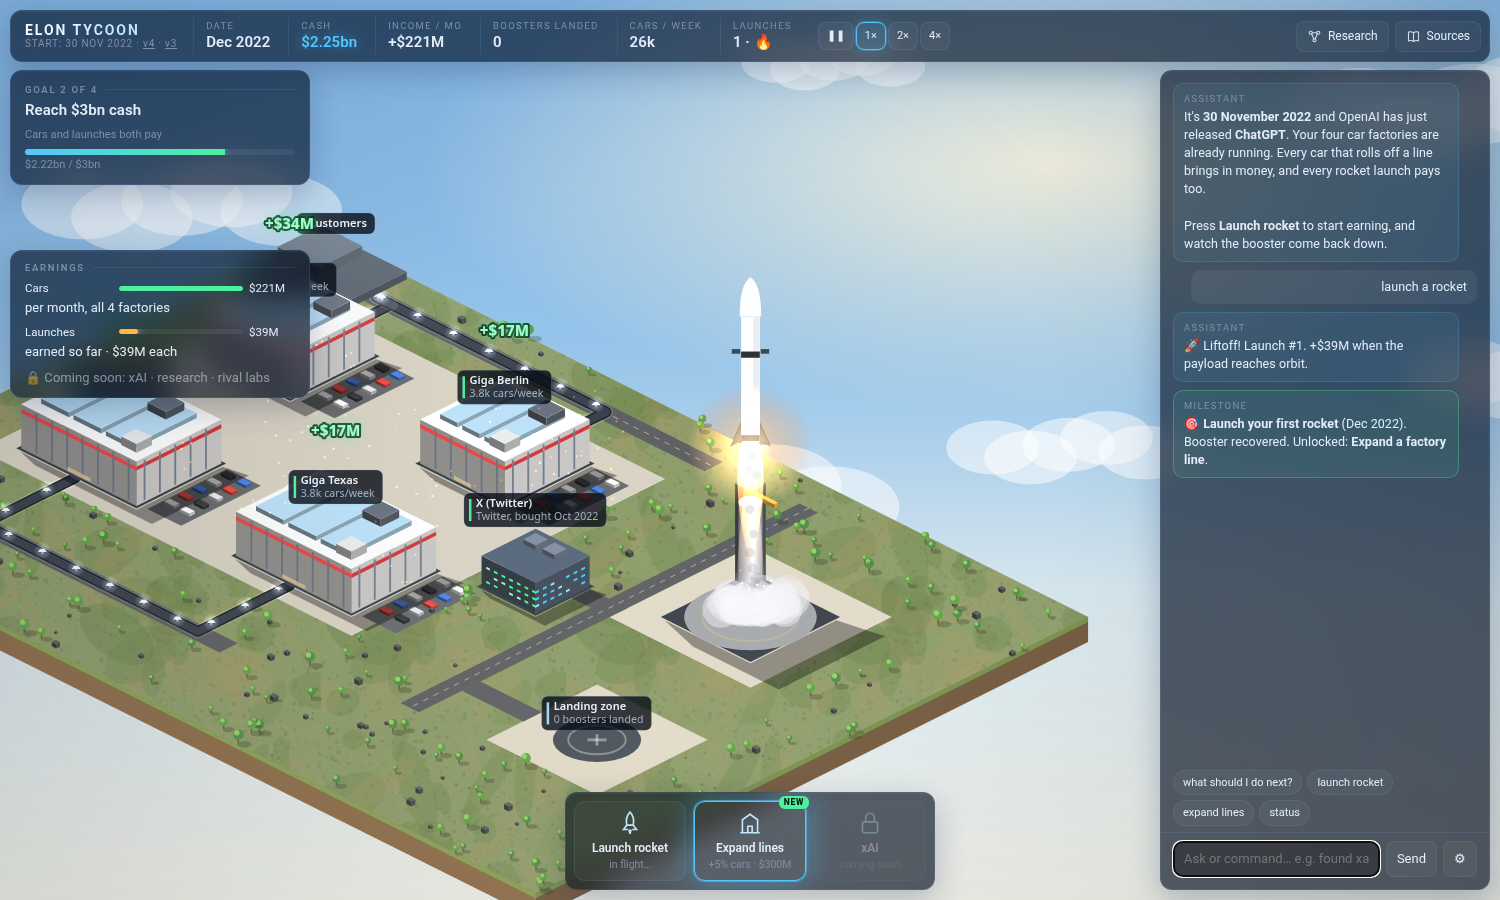
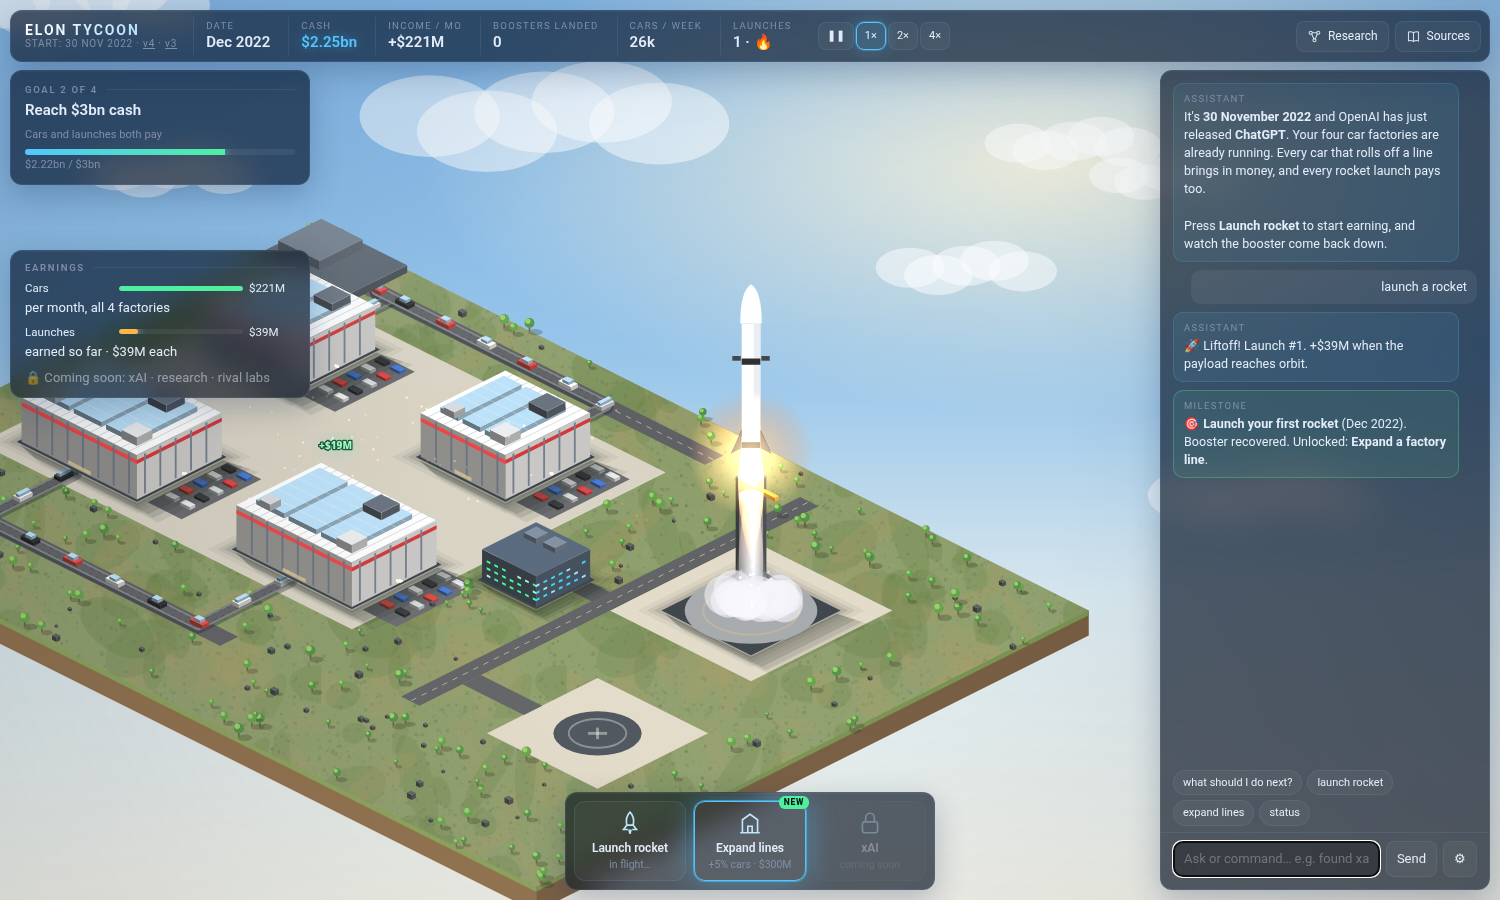
v5 visual pass 2: soft shadows/AO, roof textures, road belts with car models, hover labels, fewer pops, touchdown slow-mo, smoke cleanup, phone framing

diff --git a/index.html b/index.html
@@ -125,7 +125,7 @@ function month(){S.bought=0;S.carsWk*=1.02;checkGoal();sync()}
 let lastT=performance.now();const SECPM=5;
 function loop(now){const dt=Math.min(.1,(now-lastT)/1000);lastT=now;if(!S.paused)advance(dt*S.speed/SECPM);if(S.flight){S.flight.t+=dt*Math.max(1,S.speed*.7);if(S.flight.t>=S.flight.dur)resolveFlight()}requestAnimationFrame(loop)}
 function advance(dm){S.t+=dm;S.cd=Math.max(0,S.cd-dm);const cars=S.carsWk*4.33*dm;S.cars+=cars;S.cash+=cars*2000/1e9;
- FAC.forEach(([k,,sh])=>{S.carAcc[k]=(S.carAcc[k]||0)+cars*sh;if(S.carAcc[k]>=S.carsWk*sh*1.1){if(!MOB||k==='shanghai')pop(SITES[k],'+$'+(S.carAcc[k]*2000/1e6).toFixed(0)+'M',S.carAcc[k]*2000/1e6);S.carAcc[k]=0;rollOut(k)}});
+ FAC.forEach(([k,,sh])=>{S.carAcc[k]=(S.carAcc[k]||0)+cars*sh;if(S.carAcc[k]>=S.carsWk*sh*2.5){if(k==='shanghai'||k==='texas'&&!MOB)pop(SITES[k],'+$'+(S.carAcc[k]*2000/1e6).toFixed(0)+'M',S.carAcc[k]*2000/1e6);S.carAcc[k]=0;rollOut(k)}});
  while(Math.floor(S.t)>S.month){S.month++;month()}uiTick()}
 function actions(){const L=[{id:'launch',n:'Launch rocket',s:S.flight?'in flight…':S.cd>0?'turning pad around…':'+$39M per launch',cmd:'launch rocket',ic:'rocket'}];
  if(S.unl.line)L.push({id:'line',n:'Expand lines',s:`+5% cars · ${money(.3*Math.pow(1.4,S.lines))}`,cmd:'expand lines',ic:'build'});
@@ -206,7 +206,7 @@ function emit(k,X,Y,n=1){for(let i=0;i<n&&parts.length<PMAX;i++){const p={k,x:X+
  if(k==='spark'){p.vx=(Math.random()-.5)*1.6;p.vy=-1-Math.random()*1.4}if(k==='plume'){p.vx=(Math.random()-.5)*3.2;p.vy=-.15-Math.random()*.5;p.m=140+Math.random()*80;p.s=8+Math.random()*6}parts.push(p)}}
 function drawParts(){g.save();parts=parts.filter(p=>{p.l++;p.x+=p.vx+(p.k!=='spark'?.12:0);p.y+=p.vy;if(p.k==='spark')p.vy+=.06;else p.vy*=.995;const f=p.l/p.m;if(f>=1)return false;
   if(p.k==='spark'){g.globalCompositeOperation='lighter';g.fillStyle=`rgba(255,${170-80*f|0},60,${1-f})`;g.fillRect(p.x,p.y,p.s*1.6,p.s*1.6)}
-  else{g.globalCompositeOperation='source-over';if(p.k==='plume'){p.vx*=.985;const rr=p.s+f*46;const a=.55*(1-f)*(f<.05?f*20:1);const sh2=200+50*(1-f);g.fillStyle=`rgba(${sh2},${sh2},${sh2+5},${a})`;g.beginPath();g.arc(p.x,p.y,rr,0,7);g.fill();g.fillStyle=`rgba(255,255,255,${a*.6})`;g.beginPath();g.arc(p.x-rr*.25,p.y-rr*.3,rr*.55,0,7);g.fill();return true}const r=p.s+f*(p.k==='steam'?16:12);const a=(p.k==='steam'?.22:.2)*(1-f)*(f<.1?f*10:1);g.fillStyle=p.k==='steam'?`rgba(225,235,245,${a})`:`rgba(110,110,120,${a})`;g.beginPath();g.arc(p.x,p.y,r,0,7);g.fill()}return true});g.restore()}
+  else{g.globalCompositeOperation='source-over';if(p.k==='plume'){p.vx*=.985;const rr=p.s+f*46;const a=.75*(1-f)*(f<.05?f*20:1);const sh2=200+50*(1-f);g.fillStyle=`rgba(${sh2},${sh2},${sh2+5},${a})`;g.beginPath();g.arc(p.x,p.y,rr,0,7);g.fill();return true}const r=p.s+f*(p.k==='steam'?16:12);const a=(p.k==='steam'?.22:.2)*(1-f)*(f<.1?f*10:1);g.fillStyle=p.k==='steam'?`rgba(225,235,245,${a})`:`rgba(110,110,120,${a})`;g.beginPath();g.arc(p.x,p.y,r,0,7);g.fill()}return true});g.restore()}
 // ---- item sprites (procedural glowing icons) ----
 const SPR={};
 function mkSprite(it){const c=document.createElement('canvas');c.width=c.height=32;const q=c.getContext('2d');const col=ITC[it]||'#fff';
@@ -261,7 +261,7 @@ function bDraw(b,s8,st,ghost){const d=B[b.t];const[w,h]=b.sz||d.sz;const x=b.x+.
   if(!build)em.push(()=>{const rows=bt==='col'?4:3;for(let r=0;r<rows;r++){const zz=6+r*(z-10)/rows;for(let u=0;u<W2*4-1;u++){const blink=((u*37+r*11+ph+(T>>3))%9);if(blink<1)continue;const c=s8==='starved'?(blink<4?'#ff5a6a':'#402028'):(blink<3?'#a0ffd0':'#3dff9a');g.fillStyle=c;faceL(x,y,W2,H2,.15+u*.25,.15+u*.25+.12,zz,zz+2.2,c)}
     for(let u=0;u<H2*4-1;u++){const blink=((u*29+r*7+ph+(T>>3))%9);if(blink<1)continue;const c=s8==='starved'?(blink<4?'#ff5a6a':'#402028'):(blink<3?'#9fe8ff':'#3dd8ff');faceR(x,y,W2,H2,.15+u*.25,.15+u*.25+.12,zz,zz+2.2,c)}}});
   if(bt==='col'){em.push(()=>{const[X,Y]=P(x+W2*.5,y+H2,z*.55);g.font='bold 9px ui-sans-serif,system-ui';g.textAlign='center';g.fillStyle=`rgba(200,230,255,${.55+.2*Math.sin(T/30)})`;})}}
- else if(bt==='shell'){const z=Hh(46);prism(x,y,W2,H2,0,z,'#eceef0');faceL(x,y,W2,H2,0,W2,z-9,z-5,sh('#d0343a',1));faceR(x,y,W2,H2,0,H2,z-9,z-5,sh('#b52a30',1));for(let i=0;i<3;i++)prism(x+.3+i*(W2-.6)/3,y+.35,(W2-.6)/3-.15,H2-.7,z,z+5,'#9fc3dc',{edge:false});prism(x+W2-.8,y+H2-.8,.5,.5,z,z+9,'#c9cdd2');for(let i=1;i<W2*2;i++){faceL(x,y,W2,H2,i*.5-.03,i*.5+.03,2,z-2,sh('#55606e',1))}for(let i=1;i<H2*2;i++){faceR(x,y,W2,H2,i*.5-.03,i*.5+.03,2,z-2,sh('#5f6a79',1))}
+ else if(bt==='shell'){const z=Hh(46);prism(x,y,W2,H2,0,z,'#eceef0');faceL(x,y,W2,H2,0,W2,z-9,z-5,sh('#d0343a',1));faceR(x,y,W2,H2,0,H2,z-9,z-5,sh('#b52a30',1));for(let i=0;i<3;i++)prism(x+.3+i*(W2-.6)/3,y+.35,(W2-.6)/3-.15,H2-.7,z,z+5,'#9fc3dc',{edge:false});g.strokeStyle='rgba(60,80,100,.25)';g.lineWidth=.8;g.beginPath();for(let i=1;i<W2*4;i++){g.moveTo(...P(x+i*.25,y,z));g.lineTo(...P(x+i*.25,y+H2,z))}g.stroke();for(let i=0;i<3;i++)prism(x+.3+i*(W2-.6)/3,y+.35,(W2-.6)/3-.15,H2-.7,z,z+5,'#9fc3dc',{edge:false});{const xi=x+.3,yi=y+.35;g.strokeStyle='rgba(255,255,255,.35)';g.beginPath();for(let j=1;j<6;j++){g.moveTo(...P(xi,yi+j*(H2-.7)/6,z+5));g.lineTo(...P(x+W2-.3,yi+j*(H2-.7)/6,z+5))}g.stroke()}prism(x+W2-.8,y+H2-.8,.5,.5,z,z+9,'#c9cdd2');prism(x+.4,y+H2-.7,.35,.35,z,z+7,'#b8bdc4');for(let i=1;i<W2*2;i++){faceL(x,y,W2,H2,i*.5-.03,i*.5+.03,2,z-2,sh('#55606e',1))}for(let i=1;i<H2*2;i++){faceR(x,y,W2,H2,i*.5-.03,i*.5+.03,2,z-2,sh('#5f6a79',1))}
   prism(x+W2*.6,y+.3,.6,.6,z,z+8,'#56606f');if(!build)em.push(()=>{faceL(x,y,W2,H2,W2*.4,W2*.6,1,5,'rgba(255,220,150,.55)')})}
  else if(bt==='cool'){prism(x,y,W2,H2,0,Hh(5),'#56606c');const r=Math.min(W2,H2)*.22;const t1=[x+W2*.3,y+H2*.35],t2=[x+W2*.72,y+H2*.7];
   [t1,t2].forEach((p,i)=>{const top=tower(p[0],p[1],r,Hh(58),'#b7c0cc');if(on&&!build&&Math.random()<(MOB?.18:.4))emit('steam',top[0],top[1]-2)})}
@@ -296,8 +296,9 @@ function bDraw(b,s8,st,ghost){const d=B[b.t];const[w,h]=b.sz||d.sz;const x=b.x+.
  // scaffolding for construction
  if(build){const z=(bt==='pad'?110:bt==='cool'?58:40);g.strokeStyle='rgba(255,200,80,.55)';g.lineWidth=1;g.setLineDash([3,3]);const c=[[x,y],[x+W2,y],[x+W2,y+H2],[x,y+H2]];g.beginPath();c.forEach(p=>{g.moveTo(...P(...p,0));g.lineTo(...P(...p,z))});c.forEach((p,i)=>{const q=c[(i+1)%4];g.moveTo(...P(...p,z));g.lineTo(...P(...q,z))});g.stroke();g.setLineDash([])}
  return em}
-function shadow(b){const[w,h]=b.sz||B[b.t].sz;const k={shell:1.3,hall:.8,col:1.1,turb:1.6,sth:1.6,cast:1.3,asm:1,cool:1.4,sub:.6,solar:.15,boxfab:.8,pad:2.4}[b.t]||1;const s=.55*k;
- poly([P(b.x+.2,b.y+h,0),P(b.x+w,b.y+h,0),P(b.x+w,b.y+.2,0),P(b.x+w+s,b.y+.2-s*.2,0),P(b.x+w+s,b.y+h+s*.3,0),P(b.x+.2+s,b.y+h+s*.3,0)],`rgba(0,0,0,${.18+.17*LIGHT})`)}
+function shadow(b){const[w,h]=b.sz||B[b.t].sz;const k={shell:1.3,hall:.8,col:1.1,pad:1.2}[b.t]||1;
+ const e=[.35,.2,.08];e.forEach((o,i)=>poly([P(b.x-o,b.y-o,0),P(b.x+w+o,b.y-o,0),P(b.x+w+o,b.y+h+o,0),P(b.x-o,b.y+h+o,0)],`rgba(20,30,20,${.05+.03*i})`));
+ [1.25,.95,.7].forEach((m,i)=>{const s=.6*k*m;poly([P(b.x+.2,b.y+h,0),P(b.x+w,b.y+h,0),P(b.x+w,b.y+.2,0),P(b.x+w+s,b.y+.2-s*.2,0),P(b.x+w+s,b.y+h+s*.3,0),P(b.x+.2+s,b.y+h+s*.3,0)],`rgba(25,35,30,${.09+.03*i})`)})}
 // ---- v4 draw ----
 const DK={cust:{n:'Customers',x:0,y:0,w:3,h:2,it:'car',top:1},port:{n:'Export port',x:0,y:14,w:3,h:2,it:'car'}};
 function dockArt(d){prism(d.x+.1,d.y+.1,d.w-.2,d.h-.2,0,8,'#46525f');prism(d.x+.3,d.y+.3,d.w*.45,d.h-.6,8,18,'#5b6878')}
@@ -305,10 +306,12 @@ function rocketArt(X,Y,h,flame){const w=h*.075;g.fillStyle=sh('#f4f6f8',1);g.fil
  g.fillStyle=sh('#30343a',1);g.fillRect(X-w*2,Y-h*.74,w*.9,w*.5);g.fillRect(X+w*1.1,Y-h*.74,w*.9,w*.5);g.beginPath();g.moveTo(X-w,Y);g.lineTo(X-w*2.2,Y+w*.6);g.lineTo(X-w,Y-w*2);g.moveTo(X+w,Y);g.lineTo(X+w*2.2,Y+w*.6);g.lineTo(X+w,Y-w*2);g.fill();
  if(flame){g.save();g.globalCompositeOperation='lighter';const L=h*.9*flame*(0.9+Math.random()*.2);const gl=g.createLinearGradient(0,Y,0,Y+L);gl.addColorStop(0,'rgba(255,255,240,1)');gl.addColorStop(.15,'rgba(255,220,140,.95)');gl.addColorStop(.6,'rgba(255,120,40,.5)');gl.addColorStop(1,'rgba(255,60,10,0)');g.fillStyle=gl;g.beginPath();g.moveTo(X-w*.9,Y);g.quadraticCurveTo(X-w*2.2,Y+L*.4,X,Y+L);g.quadraticCurveTo(X+w*2.2,Y+L*.4,X+w*.9,Y);g.fill();
   const gg=g.createRadialGradient(X,Y+6,0,X,Y+6,h*.5*flame);gg.addColorStop(0,'rgba(255,230,180,.8)');gg.addColorStop(1,'rgba(255,140,60,0)');g.fillStyle=gg;g.fillRect(X-h,Y-h*.5,h*2,h*1.5);g.restore()}}
+function carModel(x,y,dx,c){const L=dx?.42:.22,Wd=dx?.22:.42;prism(x-L/2,y-Wd/2,L,Wd,1,5,c,{edge:false});prism(x-L/4,y-Wd/2+.03,L/2,Wd-.06,5,8,'#9fc6e0',{edge:false})}
 let CL=null;function drawClouds(){if(!CL){CL=[];for(let i=0;i<7;i++)CL.push({x:Math.random()*1.4-.2,y:Math.random()*.7,s:.6+Math.random()*.9,v:.00004+Math.random()*.00005})}CL.forEach(c=>{c.x+=c.v;if(c.x>1.3)c.x=-.3;const X=c.x*VW-(cam.x*.05)%VW,Y=c.y*VH,R=90*c.s;g.fillStyle='rgba(255,255,255,.5)';for(let k=0;k<5;k++){g.beginPath();g.ellipse(X+(k-2)*R*.45,Y+Math.sin(k*1.7)*R*.12,R*.55,R*.32,0,0,7);g.fill()}})}
 function flows(){return[{it:'car',pts:[[3.5,3],[3.5,1.2],[3,1.2]],on:true},{it:'car',pts:[[10.5,3],[10.5,1.2],[3,1.2]],on:true},{it:'car',pts:[[4,12],[4,15],[3,15]],on:true},{it:'car',pts:[[11,12],[11,15],[3,15]],on:true}]}
+let HOV=null;cv.addEventListener('pointermove',e=>{const r=cv.getBoundingClientRect();const wx=(e.clientX-r.left-VW/2)/cam.z+cam.x,wy=(e.clientY-r.top-VH/2)/cam.z+cam.y;const a=wx/(TW/2),bb=wy/(TH/2);const gx=(a+bb)/2,gy=(bb-a)/2;HOV=null;for(const k in SITES){const s=SITES[k];if(gx>=s.x-.3&&gx<s.x+s.sz[0]+.3&&gy>=s.y-.3&&gy<s.y+s.sz[1]+1.2)HOV=k}});
 const camv={x:0,y:0,z:1},tcv={x:0,y:0,z:1};let camF=null;
-function fitV(inst){const narrow=innerWidth<=760;const v={l:narrow?6:320,t:narrow?250:70,r:VW-(narrow?6:350),b:VH-(narrow?110:110)};const xs=[P(0,H)[0],P(W,0)[0]],ys=[P(0,0,60)[1],P(W,H)[1]];
+function fitV(inst){const narrow=innerWidth<=760;const v={l:narrow?10:320,t:narrow?260:70,r:VW-(narrow?10:350),b:VH-(narrow?120:110)};const xs=[P(0,H)[0],P(W,0)[0]],ys=[P(0,0,60)[1],P(W,H)[1]];
  const X0=P(0,15)[0],X1=P(23,4)[0]+10,Y0=P(1,0,60)[1],Y1=P(22,14)[1];const z=Math.min(1.8,(v.r-v.l)/(X1-X0),(v.b-v.t)/(Y1-Y0));tcv.z=z;tcv.x=(X0+X1)/2-((v.l+v.r)/2-VW/2)/z;tcv.y=(Y0+Y1)/2-((v.t+v.b)/2-VH/2)/z;if(inst)Object.assign(camv,tcv)}
 function draw4(){tick++;const r=wrap.getBoundingClientRect();if(Math.abs(VW-r.width)>1||Math.abs(VH-r.height)>1){resize();fitV()}
  const tg=camF||tcv;camF=null;camv.x+=(tg.x-camv.x)*(tg===tcv?.06:.12);camv.y+=(tg.y-camv.y)*(tg===tcv?.06:.12);camv.z+=((tg.z||tcv.z)-camv.z)*.05;Object.assign(cam,camv);
@@ -318,17 +321,17 @@ function draw4(){tick++;const r=wrap.getBoundingClientRect();if(Math.abs(VW-r.wi
  // landing zone
  {const l=SITES.lz;const[X,Y]=P(l.x+1,l.y+1);g.fillStyle=sh('#39414b',1);g.beginPath();g.ellipse(X,Y,46,23,0,0,7);g.fill();g.strokeStyle=`rgba(255,255,255,${.35})`;g.lineWidth=2;g.beginPath();g.ellipse(X,Y,30,15,0,0,7);g.stroke();g.fillStyle='rgba(255,255,255,.4)';g.fillRect(X-10,Y-1.5,20,3);g.fillRect(X-1.5,Y-6,3,12)}
  const F=flows();const EM=[];
- F.forEach(f=>{const p=f.pts.map(q=>P(q[0],q[1],1));g.lineJoin='round';g.lineCap='round';g.strokeStyle='#0a0d12';g.lineWidth=11;g.beginPath();p.forEach((q,i)=>i?g.lineTo(...q):g.moveTo(...q));g.stroke();g.strokeStyle='#252c37';g.lineWidth=8;g.stroke()});
- g.save();g.globalCompositeOperation='lighter';F.forEach(f=>{if(!f.on)return;const p=f.pts.map(q=>P(q[0],q[1],1));const c=hx(ITC[f.it]);g.strokeStyle=`rgba(${c},.0)`;g.strokeStyle=`rgba(${c[0]},${c[1]},${c[2]},.09)`;g.lineWidth=14;g.beginPath();p.forEach((q,i)=>i?g.lineTo(...q):g.moveTo(...q));g.stroke();
-  const len=pathLen(f.pts),n=Math.max(2,Math.floor(len/1.1)),im=spr(f.it);for(let k=0;k<n;k++){const t=((tick/(60*len/2.2))+k/n)%1;const[wx,wy]=along(f.pts,t);const[X,Y]=P(wx,wy,4);g.drawImage(im,X-10,Y-10,20,20)}});g.restore();
+ F.forEach(f=>{const p=f.pts.map(q=>P(q[0],q[1],1));g.lineJoin='round';g.lineCap='round';g.strokeStyle='rgba(30,35,40,.35)';g.lineWidth=14;g.beginPath();p.forEach((q,i)=>i?g.lineTo(q[0],q[1]+2):g.moveTo(q[0],q[1]+2));g.stroke();g.strokeStyle=sh('#6b7076',1);g.lineWidth=11;g.beginPath();p.forEach((q,i)=>i?g.lineTo(...q):g.moveTo(...q));g.stroke();g.strokeStyle=sh('#3a3e44',1);g.lineWidth=7;g.stroke();
+  g.strokeStyle='rgba(255,255,255,.12)';g.lineWidth=7;g.setLineDash([2,6]);g.lineDashOffset=-tick*.6;g.stroke();g.setLineDash([])});
+ F.forEach(f=>{const len=pathLen(f.pts),n=Math.max(2,Math.floor(len/1.3));for(let k=0;k<n;k++){const t=((tick/(60*len/1.4))+k/n)%1;const[wx,wy]=along(f.pts,t);const[wx2,wy2]=along(f.pts,Math.min(1,t+.01));const dir=Math.abs(wx2-wx)>Math.abs(wy2-wy);carModel(wx,wy,dir,['#e8e8ea','#d23c3c','#1f2329','#3b6fd0','#c8ccd2'][k%5])}});
  Object.values(DK).forEach(d=>{dockArt(d)});
  const order=S.blds.slice().sort((a,b)=>(a.x+a.y+a.sz[0]+a.sz[1])-(b.x+b.y+b.sz[0]+b.sz[1]));order.forEach(shadow);order.forEach(b=>{EM.push(...bDraw(b,b.left>0?'build':'ok',{},false))});
  // rocket on pad
  const pd=SITES.pad;const[PX,PY]=P(pd.x+1.5,pd.y+1.5,4);
- if(S.flight){const f=S.flight.t/S.flight.dur;if(f<.45){rocketArt(PX,PY,130,0);camF={x:PX,y:PY-80,z:tcv.z*1.35};if(f>.3){emit('steam',PX+(Math.random()-.5)*50,PY);shake=Math.max(shake,2)}}else{const a=(f-.45)/.55;const y=PY-a*a*1400;camF={x:PX,y:Math.max(y-60,PY-900),z:tcv.z*1.25};{g.save();g.globalCompositeOperation='lighter';const tg=g.createLinearGradient(0,y,0,PY);tg.addColorStop(0,'rgba(255,200,120,.9)');tg.addColorStop(.3,'rgba(255,140,60,.35)');tg.addColorStop(1,'rgba(200,210,230,.05)');g.fillStyle=tg;g.beginPath();g.moveTo(PX-3,y);g.lineTo(PX+3,y);g.lineTo(PX+18,PY);g.lineTo(PX-18,PY);g.fill();g.restore()}rocketArt(PX,y,130,1);if(a<.5)emit('plume',PX+(Math.random()-.5)*20,PY,3);if(a<.35){shake=Math.max(shake,6);emit('spark',PX,PY)}if(Math.random()<.5)emit('smoke',PX+(Math.random()-.5)*8,y+10);if(a<.2)for(let i=0;i<2;i++)emit('steam',PX+(Math.random()-.5)*40,PY)}}
+ if(S.flight){const f=S.flight.t/S.flight.dur;if(f<.45){rocketArt(PX,PY,130,0);camF={x:PX,y:PY-80,z:tcv.z*1.35};if(f>.3){emit('steam',PX+(Math.random()-.5)*50,PY);shake=Math.max(shake,2)}}else{const a=(f-.45)/.55;const y=PY-a*a*1400;camF={x:PX,y:Math.max(y-60,PY-900),z:tcv.z*1.25};{g.save();g.globalCompositeOperation='lighter';const tg=g.createLinearGradient(0,y,0,PY);tg.addColorStop(0,'rgba(255,200,120,.9)');tg.addColorStop(.3,'rgba(255,140,60,.35)');tg.addColorStop(1,'rgba(200,210,230,.05)');g.fillStyle=tg;g.beginPath();g.moveTo(PX-3,y);g.lineTo(PX+3,y);g.lineTo(PX+18,PY);g.lineTo(PX-18,PY);g.fill();g.restore()}rocketArt(PX,y,130,1);if(a<.5&&tick%2==0)emit('plume',PX+(Math.random()-.5)*20,PY,3);if(a<.35){shake=Math.max(shake,6);emit('spark',PX,PY)}if(a<.2)for(let i=0;i<2;i++)emit('steam',PX+(Math.random()-.5)*40,PY)}}
  else if(S.cd<=0)rocketArt(PX,PY,130,0);
- fx=fx.filter(f=>{f.t++;if(f.k==='land'){const l=SITES.lz;const[X,Y]=P(l.x+1,l.y+1,0);const a=Math.min(1,f.t/130);const y=Y-(1-a)*(1-a)*700;
-   if(a<1){rocketArt(X,y,96,.7);camF={x:X,y:Math.max(y,Y-500)-40,z:tcv.z*1.3};if(Math.random()<.5)emit('smoke',X,y+20);return true}if(f.ok){if(f.t<200)rocketArt(X,Y,96,0);if(f.t===131){shake=5;pop(SITES.lz,'Booster landed ✓');for(let i=0;i<30;i++)emit('steam',X+(Math.random()-.5)*50,Y);for(let i=0;i<20;i++)emit('spark',X,Y)}return f.t<200}else{if(f.t===131){for(let i=0;i<50;i++)emit('spark',X,Y-10);for(let i=0;i<16;i++)emit('smoke',X,Y-10)}return f.t<160}}return false});
+ fx=fx.filter(f=>{const pre=f.t;f.t+=(f.k==='land'&&f.t>100&&f.t<131)?.3:1;if(f.k==='land'&&pre<131&&f.t>=131)f.t=131;if(f.k==='land'&&f.t>100&&f.t<131)camF={x:P(SITES.lz.x+1,SITES.lz.y+1)[0],y:P(SITES.lz.x+1,SITES.lz.y+1)[1]-50,z:tcv.z*1.7};if(f.k==='land'){const l=SITES.lz;const[X,Y]=P(l.x+1,l.y+1,0);const a=Math.min(1,f.t/130);const y=Y-(1-a)*(1-a)*700;
+   if(a<1){rocketArt(X,y,96,.7);camF={x:X,y:Math.max(y,Y-500)-40,z:tcv.z*(f.t>100?1.8:1.3)};return true}if(f.ok){if(f.t<200)rocketArt(X,Y,96,0);if(f.t===131){shake=5;pop(SITES.lz,'Booster landed ✓');for(let i=0;i<30;i++)emit('steam',X+(Math.random()-.5)*50,Y);for(let i=0;i<20;i++)emit('spark',X,Y)}return f.t<200}else{if(f.t===131){for(let i=0;i<50;i++)emit('spark',X,Y-10);for(let i=0;i<16;i++)emit('smoke',X,Y-10)}return f.t<160}}return false});
  if(false){g.save();g.setTransform(1,0,0,1,0,0);g.fillStyle=`rgba(8,14,34,${Math.max(0,1.08-LIGHT)*.5})`;g.fillRect(0,0,cv.width,cv.height);g.restore()}
  EM.forEach(f=>{g.save();f();g.restore()});drawParts();
  g.setTransform(DP,0,0,DP,0,0);const vg=g.createRadialGradient(VW/2,VH/2,Math.min(VW,VH)*.35,VW/2,VH/2,Math.max(VW,VH)*.75);vg.addColorStop(0,'rgba(0,0,0,0)');vg.addColorStop(1,'rgba(20,30,50,.18)');g.fillStyle=vg;g.fillRect(0,0,VW,VH);const hz=g.createLinearGradient(0,0,0,VH);hz.addColorStop(0,'rgba(225,238,248,.28)');hz.addColorStop(.45,'rgba(225,238,248,0)');hz.addColorStop(1,'rgba(255,236,210,.08)');g.fillStyle=hz;g.fillRect(0,0,VW,VH);
@@ -336,9 +339,9 @@ function draw4(){tick++;const r=wrap.getBoundingClientRect();if(Math.abs(VW-r.wi
  const lab=(p,a,b,col)=>{const[sx,sy]=[(p[0]-cam.x)*cam.z+VW/2,(p[1]-cam.y)*cam.z+VH/2];g.font='600 11px ui-sans-serif,system-ui';const w=Math.max(g.measureText(a).width,(g.font='10.5px ui-sans-serif,system-ui',g.measureText(b).width))+20;const x=sx-w/2,y=sy-36;
   g.fillStyle='rgba(8,12,20,.8)';rr(x,y,w,b?34:21,6);g.fill();g.strokeStyle='rgba(130,170,230,.22)';g.lineWidth=1;g.stroke();g.fillStyle=col;g.fillRect(x+5,y+6,2.5,(b?34:21)-12);g.textAlign='left';g.font='600 11px ui-sans-serif,system-ui';g.fillStyle='#e8f0fb';g.fillText(a,x+12,y+14);if(b){g.font='10.5px ui-sans-serif,system-ui';g.fillStyle='#9fb0c6';g.fillText(b,x+12,y+27)}};
  S.blds.forEach(b=>{const s=SITES[b.site];const f=FAC.find(q=>q[0]===b.site);const sub=f?`${fk(S.carsWk*f[2])} cars/week`:b.site==='pad'?(S.flight?'launching…':S.cd>0?'turning around…':'ready to launch'):b.site==='x'?'Twitter, bought Oct 2022':'';
-  if(b.site==='pad'&&S.flight)return;lab(P(b.x+b.sz[0]/2,b.y+b.sz[1]/2,b.t==='pad'?90:62),s.n,MOB?'':sub,b.site==='pad'&&!S.flight&&S.cd<=0?'#ffb547':'#4ef0a0')});
- if(!MOB)Object.values(DK).forEach(d=>lab(P(d.x+d.w/2,d.y+d.h/2,26),d.n,'','#53c6ff'));
- {const l=SITES.lz;lab(P(l.x+1,l.y+1,10),'Landing zone',`${S.landings} boosters landed`,'#9fd8ff')}
+  if(b.site==='pad'&&S.flight)return;if(b.site!=='pad'&&HOV!==b.site)return;lab(P(b.x+b.sz[0]/2,b.y+b.sz[1]/2,b.t==='pad'?90:62),s.n,MOB?'':sub,b.site==='pad'&&!S.flight&&S.cd<=0?'#ffb547':'#4ef0a0')});
+ if(false)Object.values(DK).forEach(d=>lab(P(d.x+d.w/2,d.y+d.h/2,26),d.n,'','#53c6ff'));
+ {const l=SITES.lz;if(!fx.some(f=>f.k==='land')&&!S.flight)lab(P(l.x+1,l.y+1,10),'Landing zone',`${S.landings} boosters landed`,'#9fd8ff')}
  pops=pops.filter(o=>{o.a++;const s=o.site;const[X,Y]=P(s.x+s.sz[0]/2,s.y+s.sz[1]/2,110+o.a*.7);const sx=(X-cam.x)*cam.z+VW/2+o.dx,sy=(Y-cam.y)*cam.z+VH/2;if(o.bump>0)o.bump--;const sc=(o.a<8?.6+o.a*.07:1)*(1+o.bump*.04);g.save();g.globalAlpha=Math.max(0,1-Math.max(0,o.a-60)/50);g.translate(sx,sy);g.scale(sc,sc);g.font='800 15px ui-sans-serif,system-ui';g.textAlign='center';g.lineWidth=4;g.strokeStyle='rgba(4,20,12,.85)';g.strokeText(o.t,0,0);g.fillStyle=o.t[0]==='+'?'#9dffc8':'#ffe9a8';g.shadowColor='#4ef0a0';g.shadowBlur=12;g.fillText(o.t,0,0);g.restore();return o.a<110});
  requestAnimationFrame(draw4)}
 // ---- input: pan/zoom + tooltips ----

diff --git a/tools/v5vis.js b/tools/v5vis.js
@@ -2,8 +2,8 @@ const {chromium}=require('playwright');const url=process.argv[2]||'file:///works
 (async()=>{const b=await chromium.launch();const errs=[];const p=await b.newPage({viewport:{width:1500,height:900}});p.on('pageerror',e=>errs.push(e.message));
  await p.goto(url);await p.waitForTimeout(2500);await p.screenshot({path:`${out}/v5v-${tag}-idle-1500.png`});
  const fps=async ms=>p.evaluate(ms=>new Promise(r=>{let n=0;const t0=performance.now();const f=()=>{n++;if(performance.now()-t0<ms)requestAnimationFrame(f);else r(Math.round(n*1000/(performance.now()-t0)))};requestAnimationFrame(f)}),ms);
- const idle=await fps(3000);await p.evaluate(()=>__G.command('launch rocket'));await p.waitForTimeout(1500);await p.screenshot({path:`${out}/v5v-${tag}-pad-1500.png`});await p.waitForTimeout(1100);await p.screenshot({path:`${out}/v5v-${tag}-liftoff-1500.png`});const lf=await fps(1500);await p.waitForTimeout(500);await p.screenshot({path:`${out}/v5v-${tag}-landing-1500.png`});await p.waitForTimeout(2500);
+ const idle=await fps(3000);await p.evaluate(()=>__G.command('launch rocket'));await p.waitForTimeout(1500);await p.screenshot({path:`${out}/v5v-${tag}-pad-1500.png`});await p.waitForTimeout(1100);await p.screenshot({path:`${out}/v5v-${tag}-liftoff-1500.png`});const lf=await fps(1500);await p.waitForTimeout(1300);await p.screenshot({path:`${out}/v5v-${tag}-landing-1500.png`});await p.waitForTimeout(2500);
  await p.evaluate(()=>{__G.S.speed=4});await p.waitForTimeout(5000);const f4=await fps(2000);await p.screenshot({path:`${out}/v5v-${tag}-4x-1500.png`});
- const q=await b.newPage({viewport:{width:390,height:844}});await q.goto(url);await q.waitForTimeout(1500);await q.evaluate(()=>__G.command('launch rocket'));await q.waitForTimeout(2700);await q.screenshot({path:`${out}/v5v-${tag}-phone.png`});
+ const q=await b.newPage({viewport:{width:390,height:844}});await q.goto(url);await q.waitForTimeout(1500);await q.evaluate(()=>__G.command('launch rocket'));await q.waitForTimeout(2700);await q.screenshot({path:`${out}/v5v-${tag}-phone.png`});await q.waitForTimeout(9000);await q.screenshot({path:`${out}/v5v-${tag}-phone-idle.png`});
  const q2=await b.newPage({viewport:{width:1280,height:800}});await q2.goto(url);await q2.waitForTimeout(2000);await q2.screenshot({path:`${out}/v5v-${tag}-1280.png`});
  console.log(JSON.stringify({idle,launch:lf,x4:f4,errs}));await b.close()})();
